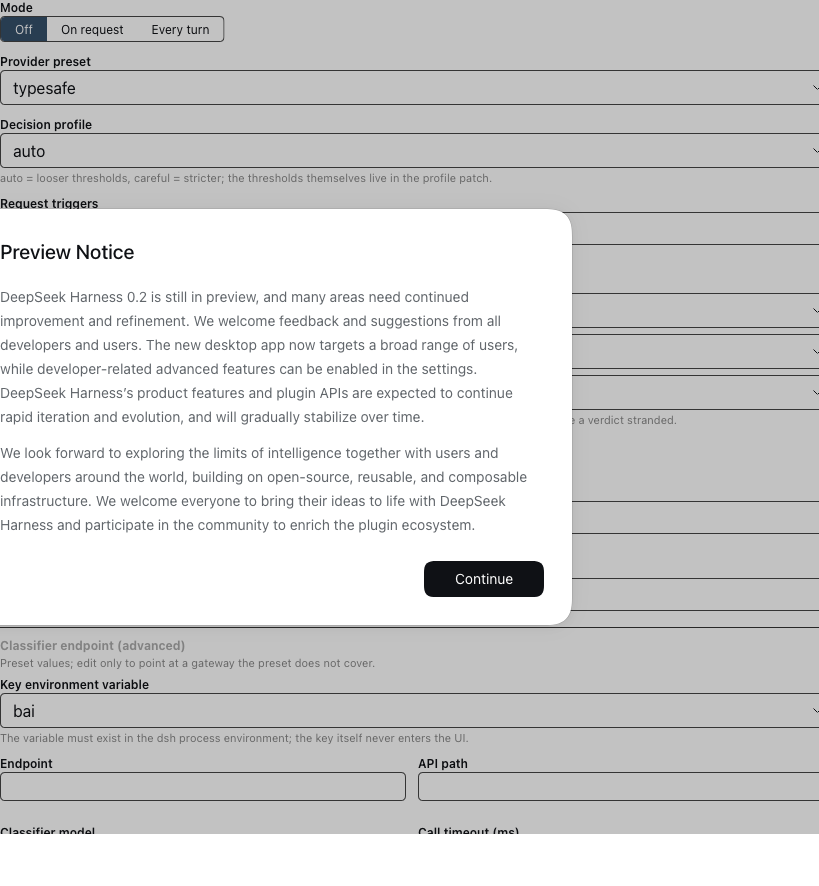
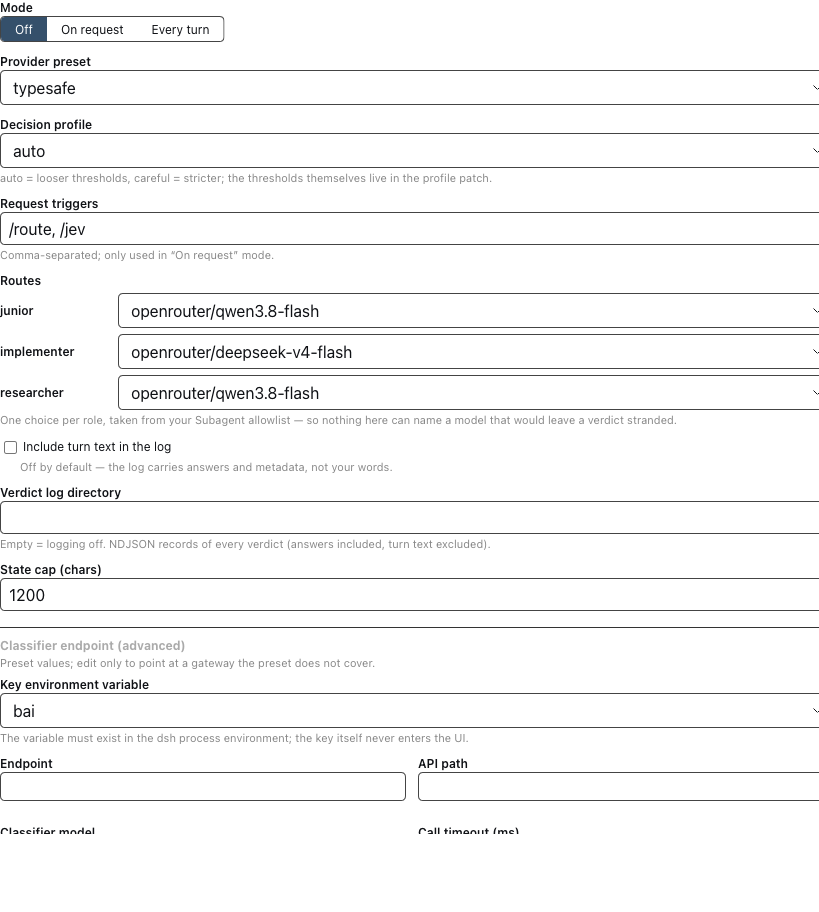
fix(docs): re-shoot the screenshots without the first-run dialog, and show the card's version (0.7.2)
The first pair of screenshots was captured while the 'Preview Notice' dialog was
still open. An element screenshot captures the region of the viewport, including
anything overlapping it, so the dialog sat on top of the card -- and the pixel
check I ran could not tell the difference, because a modal is a perfectly real
render. Caught by the smaller of the two clues: the old card was 65% dark pixels
against 5.8% now, which is the backdrop.

To keep 'the card looks wrong' from being an investigation again, the card now
prints the version it was built from, taken from package.json at build time. A tab
keeps the bundle it loaded and a host restart does not reload it.

diff --git a/lib/client.js b/lib/client.js
@@ -45,6 +45,14 @@ window.__ModuleLoader__.load({
 		// src/client/JevSettingsCard.tsx
 		var import_react = require("react");
 
+		// src/shared/config.mjs
+		var SETTINGS_NAMESPACE = "jev-subagent-dispatch";
+		var PLUGIN_NAME = "jev-subagent-dispatch";
+		var PACKAGE_NAME = "dsh-jev-subagent-dispatch";
+		var ROW_CONFIG_KEY = `${PACKAGE_NAME}#${PLUGIN_NAME}`;
+		var SUBAGENT_ALLOWLIST_NAMESPACE = "subagent-model-selection-settings";
+		var SUBAGENT_NAMESPACE = "subagent";
+
 		// src/client/locales.ts
 		var en = {
 		  title: "Jev subagent dispatch",
@@ -213,6 +221,13 @@ window.__ModuleLoader__.load({
 		  color: active2 ? "#fff" : "inherit"
 		});
 		var errorStyle = { fontSize: 11, color: "var(--dsw-alias-text-danger, #e66)", marginTop: 4 };
+		var versionStyle = {
+		  fontSize: 10,
+		  margin: "14px 0 0",
+		  opacity: 0.55,
+		  letterSpacing: 0.2,
+		  fontFamily: "var(--dsw-alias-font-mono, ui-monospace, monospace)"
+		};
 		var warningStyle = {
 		  fontSize: 11,
 		  margin: "0 0 12px",
@@ -626,17 +641,15 @@ window.__ModuleLoader__.load({
 		          }
 		        )
 		      ] })
+		    ] }),
+		    /* @__PURE__ */ (0, import_jsx_runtime.jsxs)("p", { style: versionStyle, children: [
+		      PACKAGE_NAME,
+		      " ",
+		      "v",
+		      true ? "0.7.2" : "dev"
 		    ] })
 		  ] });
 		}
-
-		// src/shared/config.mjs
-		var SETTINGS_NAMESPACE = "jev-subagent-dispatch";
-		var PLUGIN_NAME = "jev-subagent-dispatch";
-		var PACKAGE_NAME = "dsh-jev-subagent-dispatch";
-		var ROW_CONFIG_KEY = `${PACKAGE_NAME}#${PLUGIN_NAME}`;
-		var SUBAGENT_ALLOWLIST_NAMESPACE = "subagent-model-selection-settings";
-		var SUBAGENT_NAMESPACE = "subagent";
 
 		// src/client/index.tsx
 		function wireLocale(ctx) {

diff --git a/src/client/JevSettingsCard.tsx b/src/client/JevSettingsCard.tsx
@@ -14,6 +14,7 @@
  */
 import * as React from 'react'
 import { useCallback, useState, useSyncExternalStore } from 'react'
+import { PACKAGE_NAME } from '../shared/config.mjs'
 import { localeRevision, subscribeLocale, tr } from './i18n.js'
 import type { JevScope, JevSettings, SubagentAllowlist } from './types.js'
 
@@ -44,6 +45,10 @@ const segBtn = (active: boolean): React.CSSProperties => ({
   color: active ? '#fff' : 'inherit',
 })
 const errorStyle: React.CSSProperties = { fontSize: 11, color: 'var(--dsw-alias-text-danger, #e66)', marginTop: 4 }
+const versionStyle: React.CSSProperties = {
+  fontSize: 10, margin: '14px 0 0', opacity: 0.55, letterSpacing: 0.2,
+  fontFamily: 'var(--dsw-alias-font-mono, ui-monospace, monospace)',
+}
 const warningStyle: React.CSSProperties = {
   fontSize: 11, margin: '0 0 12px', padding: '8px 10px', borderRadius: 6,
   border: '1px solid var(--dsw-alias-border-danger, #a33)',
@@ -437,6 +442,14 @@ export function JevSettingsCard(props: { scope: JevScope; allowlist?: JevScope; 
           />
         </div>
       </div>
+
+      {/* Which build this tab is actually running: a host restart does not reload
+          an open tab, so this is the first thing to check when the card looks
+          older than the release you just installed. */}
+      <p style={versionStyle}>
+        {PACKAGE_NAME} {'v'}
+        {typeof __JEV_VERSION__ === 'string' ? __JEV_VERSION__ : 'dev'}
+      </p>
     </div>
   )
 }

diff --git a/src/client/env.d.ts b/src/client/env.d.ts
@@ -1,0 +1,10 @@
+/**
+ * Injected by `scripts/build-client.mjs` from `package.json`.
+ *
+ * The card shows it so a reader can tell *which* build they are looking at. That
+ * matters more than it sounds: a browser tab keeps the bundle it loaded, and a
+ * host restart does not reload it, so "the card looks wrong" is very often "the
+ * tab is running last week's code". With the version on screen that is a glance
+ * rather than an investigation.
+ */
+declare const __JEV_VERSION__: string

diff --git a/README.md b/README.md
@@ -188,6 +188,8 @@ Set `mock: true` in the plugin row config. The mock classifier answers from keyw
 
 Two surfaces, one source of truth. The plugin's **own page under Plugins** (DSH 0.1.7+, where the form renders inline on the package page; the row's **Configure** control opens the same form) — or the **Plugins settings tab** on 0.1.5 — edits the top-level fields live: mode, provider preset, decision profile, triggers, routes, log directory and turn-text switch, state cap, and the classifier endpoint group — edits reach the next turn **without a host restart**, and a rejected value keeps the previous good config. Routes are here because they are the one nested field that fails quietly: a route naming a model your Subagent allowlist forbids still classifies, so the verdict reads as healthy while there is nowhere to dispatch. The card reads that allowlist from the `subagent-model-selection-settings` namespace — another plugin's, bound through `configForms.get`, which the framework documents for exactly this — and offers its models as one select per role, so the mistake is not available to make. Where that namespace is not served, the raw `role=provider/model` field returns unchanged. The **profile patch** remains the base layer for everything the card deliberately does not fake: profile thresholds (`effortMax`, `noulMax`, `probabilityMax`), `routeFor`, custom `questions`, `delegationTools`.
 
+The card prints the version it was built from, in the bottom corner. A browser tab keeps the bundle it loaded, and restarting the host does not reload it — so if a control you just installed is missing, check that line first: no version line at all means the tab is running a build from before it existed, and a reload fixes it.
+
 All settings live in the plugin row's `config`. The bundle patch ships the documented defaults; override the same row by id in your profile's `cordis.patch.yml` (edits there are the base layer the card rides on). Merging: `questions` and `routes` merge per key (override one entry, keep the rest); `profiles` deep-merge (tweak one threshold, keep the predicate); everything else follows ordinary deep-merge rules.
 
 | Key | Default | Meaning |

diff --git a/CHANGELOG.md b/CHANGELOG.md
@@ -4,6 +4,20 @@ All notable changes to this project are documented here. The format follows
 [Keep a Changelog](https://keepachangelog.com/en/1.1.0/); versions follow
 semantic versioning.
 
+## [0.7.2] - 2026-09-30
+
+### Added
+
+- The card prints the version it was built from. A browser tab keeps the bundle it
+  loaded and a host restart does not reload it, so "the card looks wrong" is very
+  often "this tab is running older code" — with the version on screen that is a
+  glance instead of an investigation.
+
+### Fixed
+
+- Re-shot the README screenshots: the first pair was captured with the first-run
+  "Preview Notice" dialog still open, which covered the card.
+
 ## [0.7.1] - 2026-09-30
 
 ### Added
